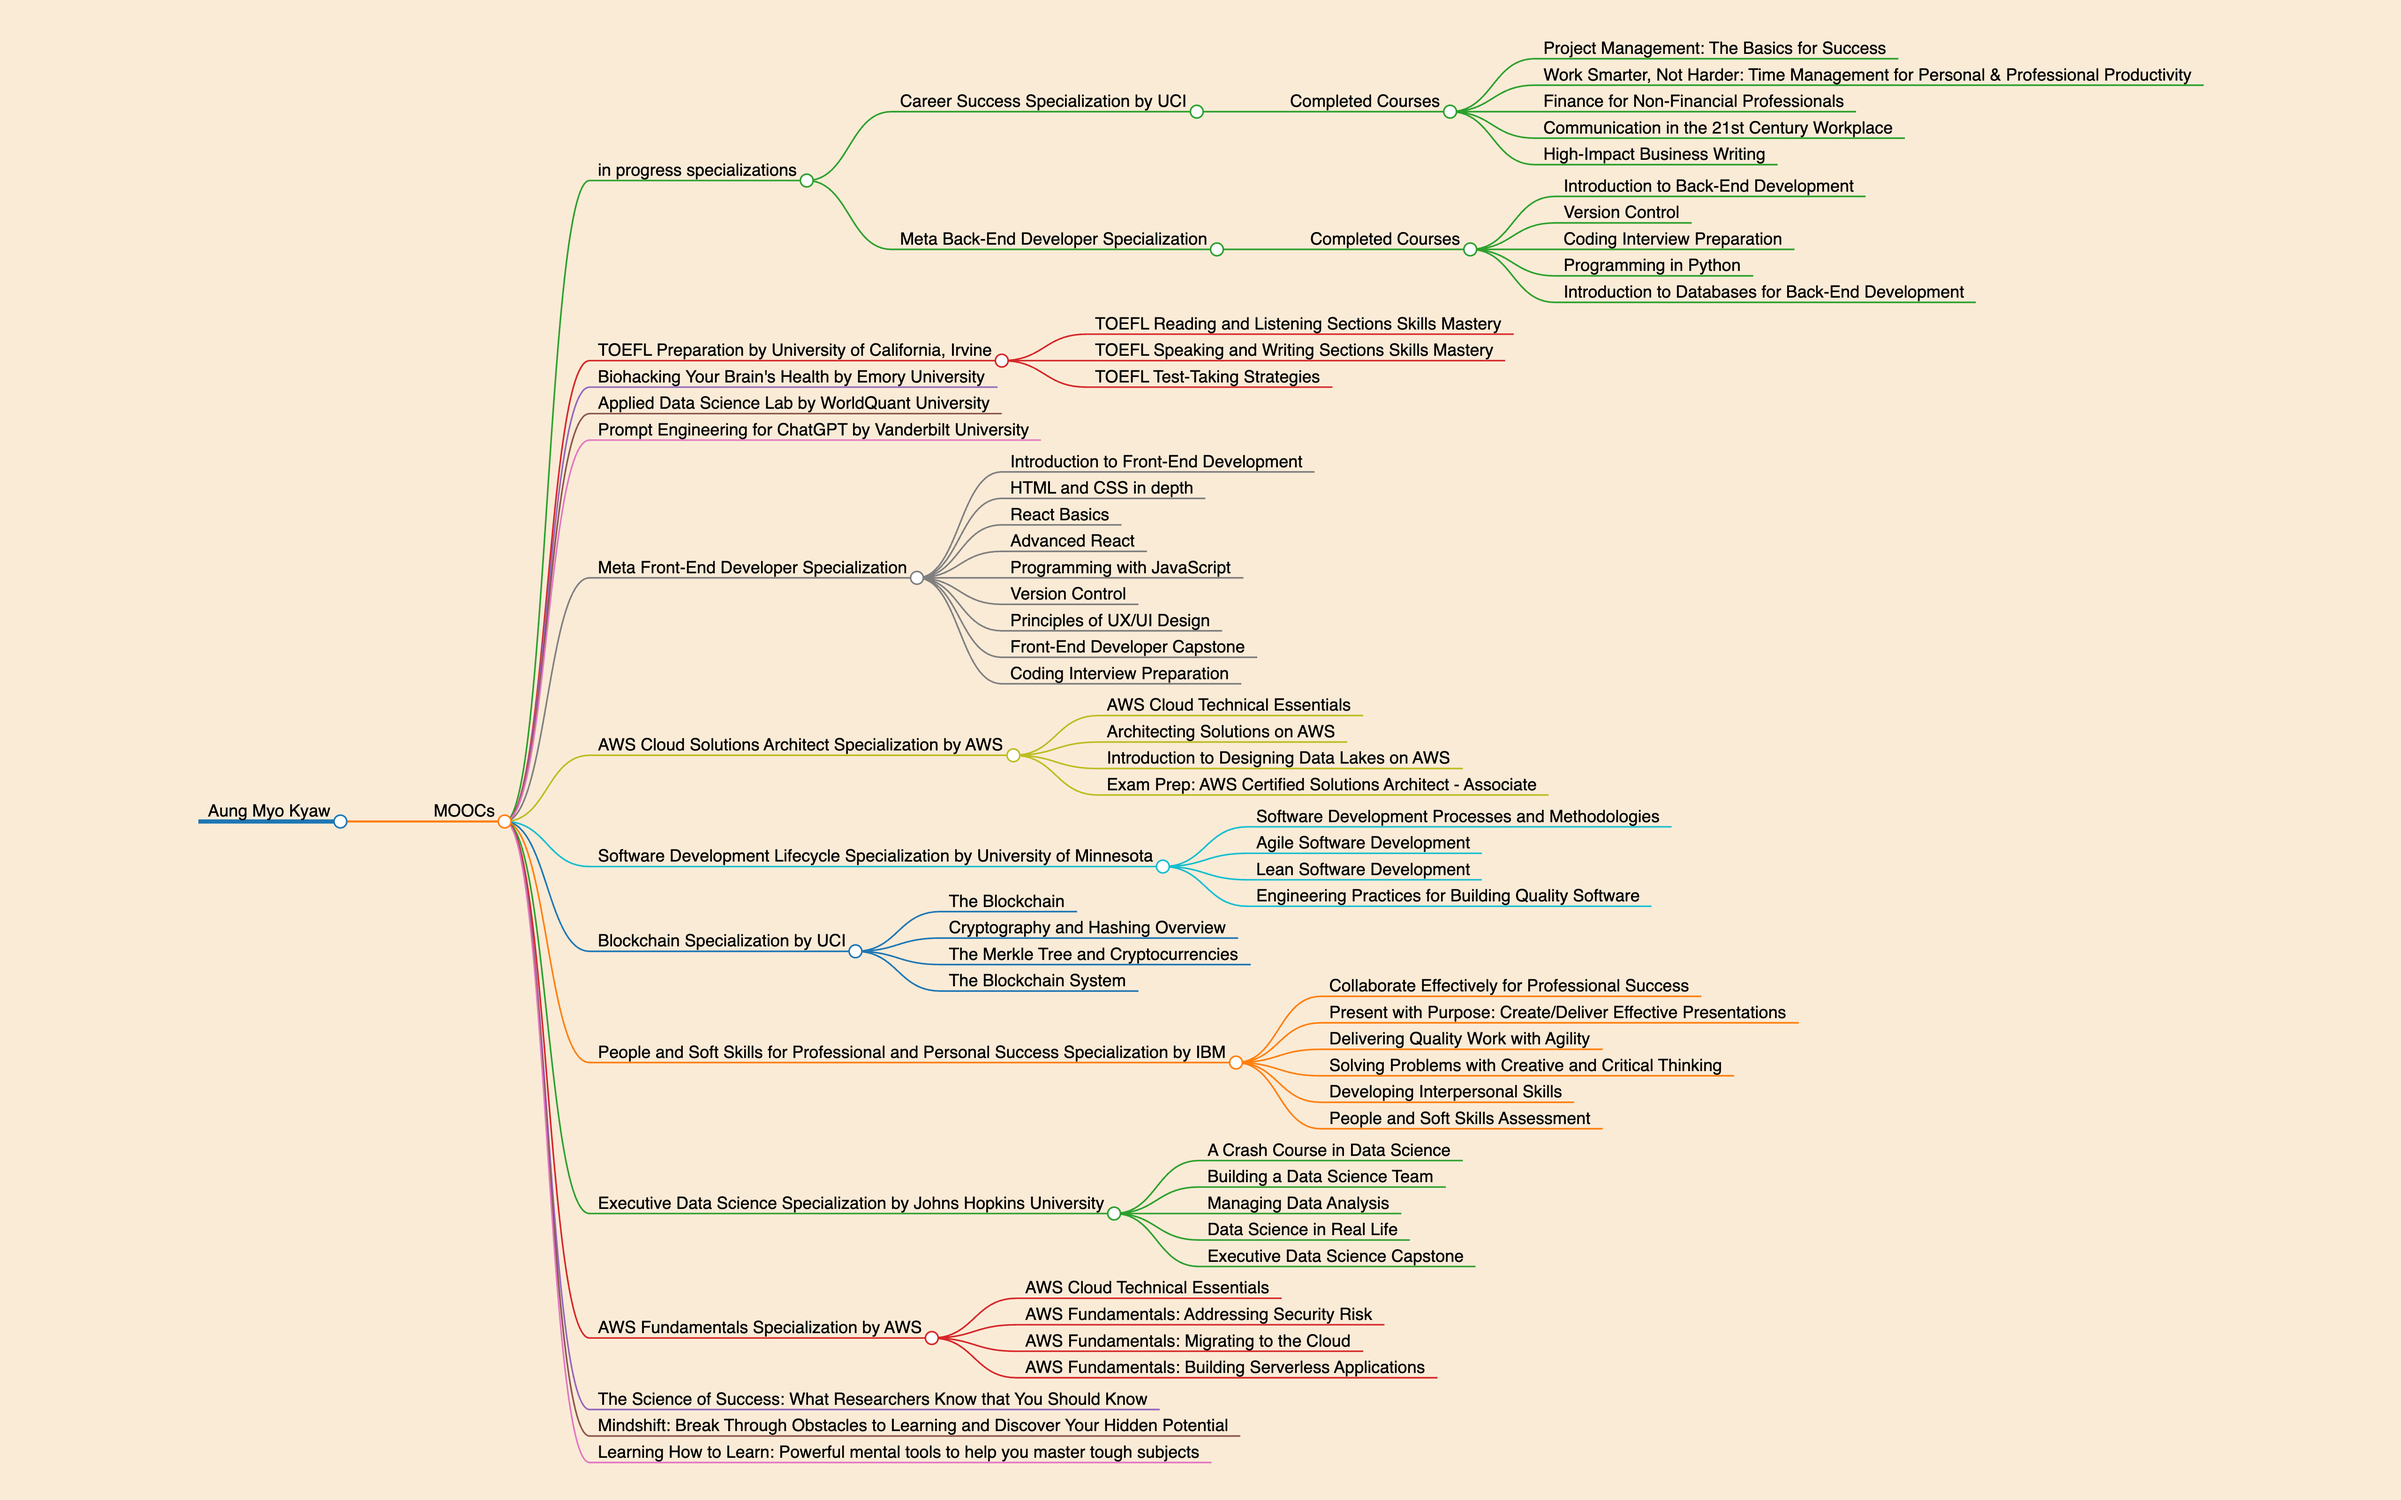
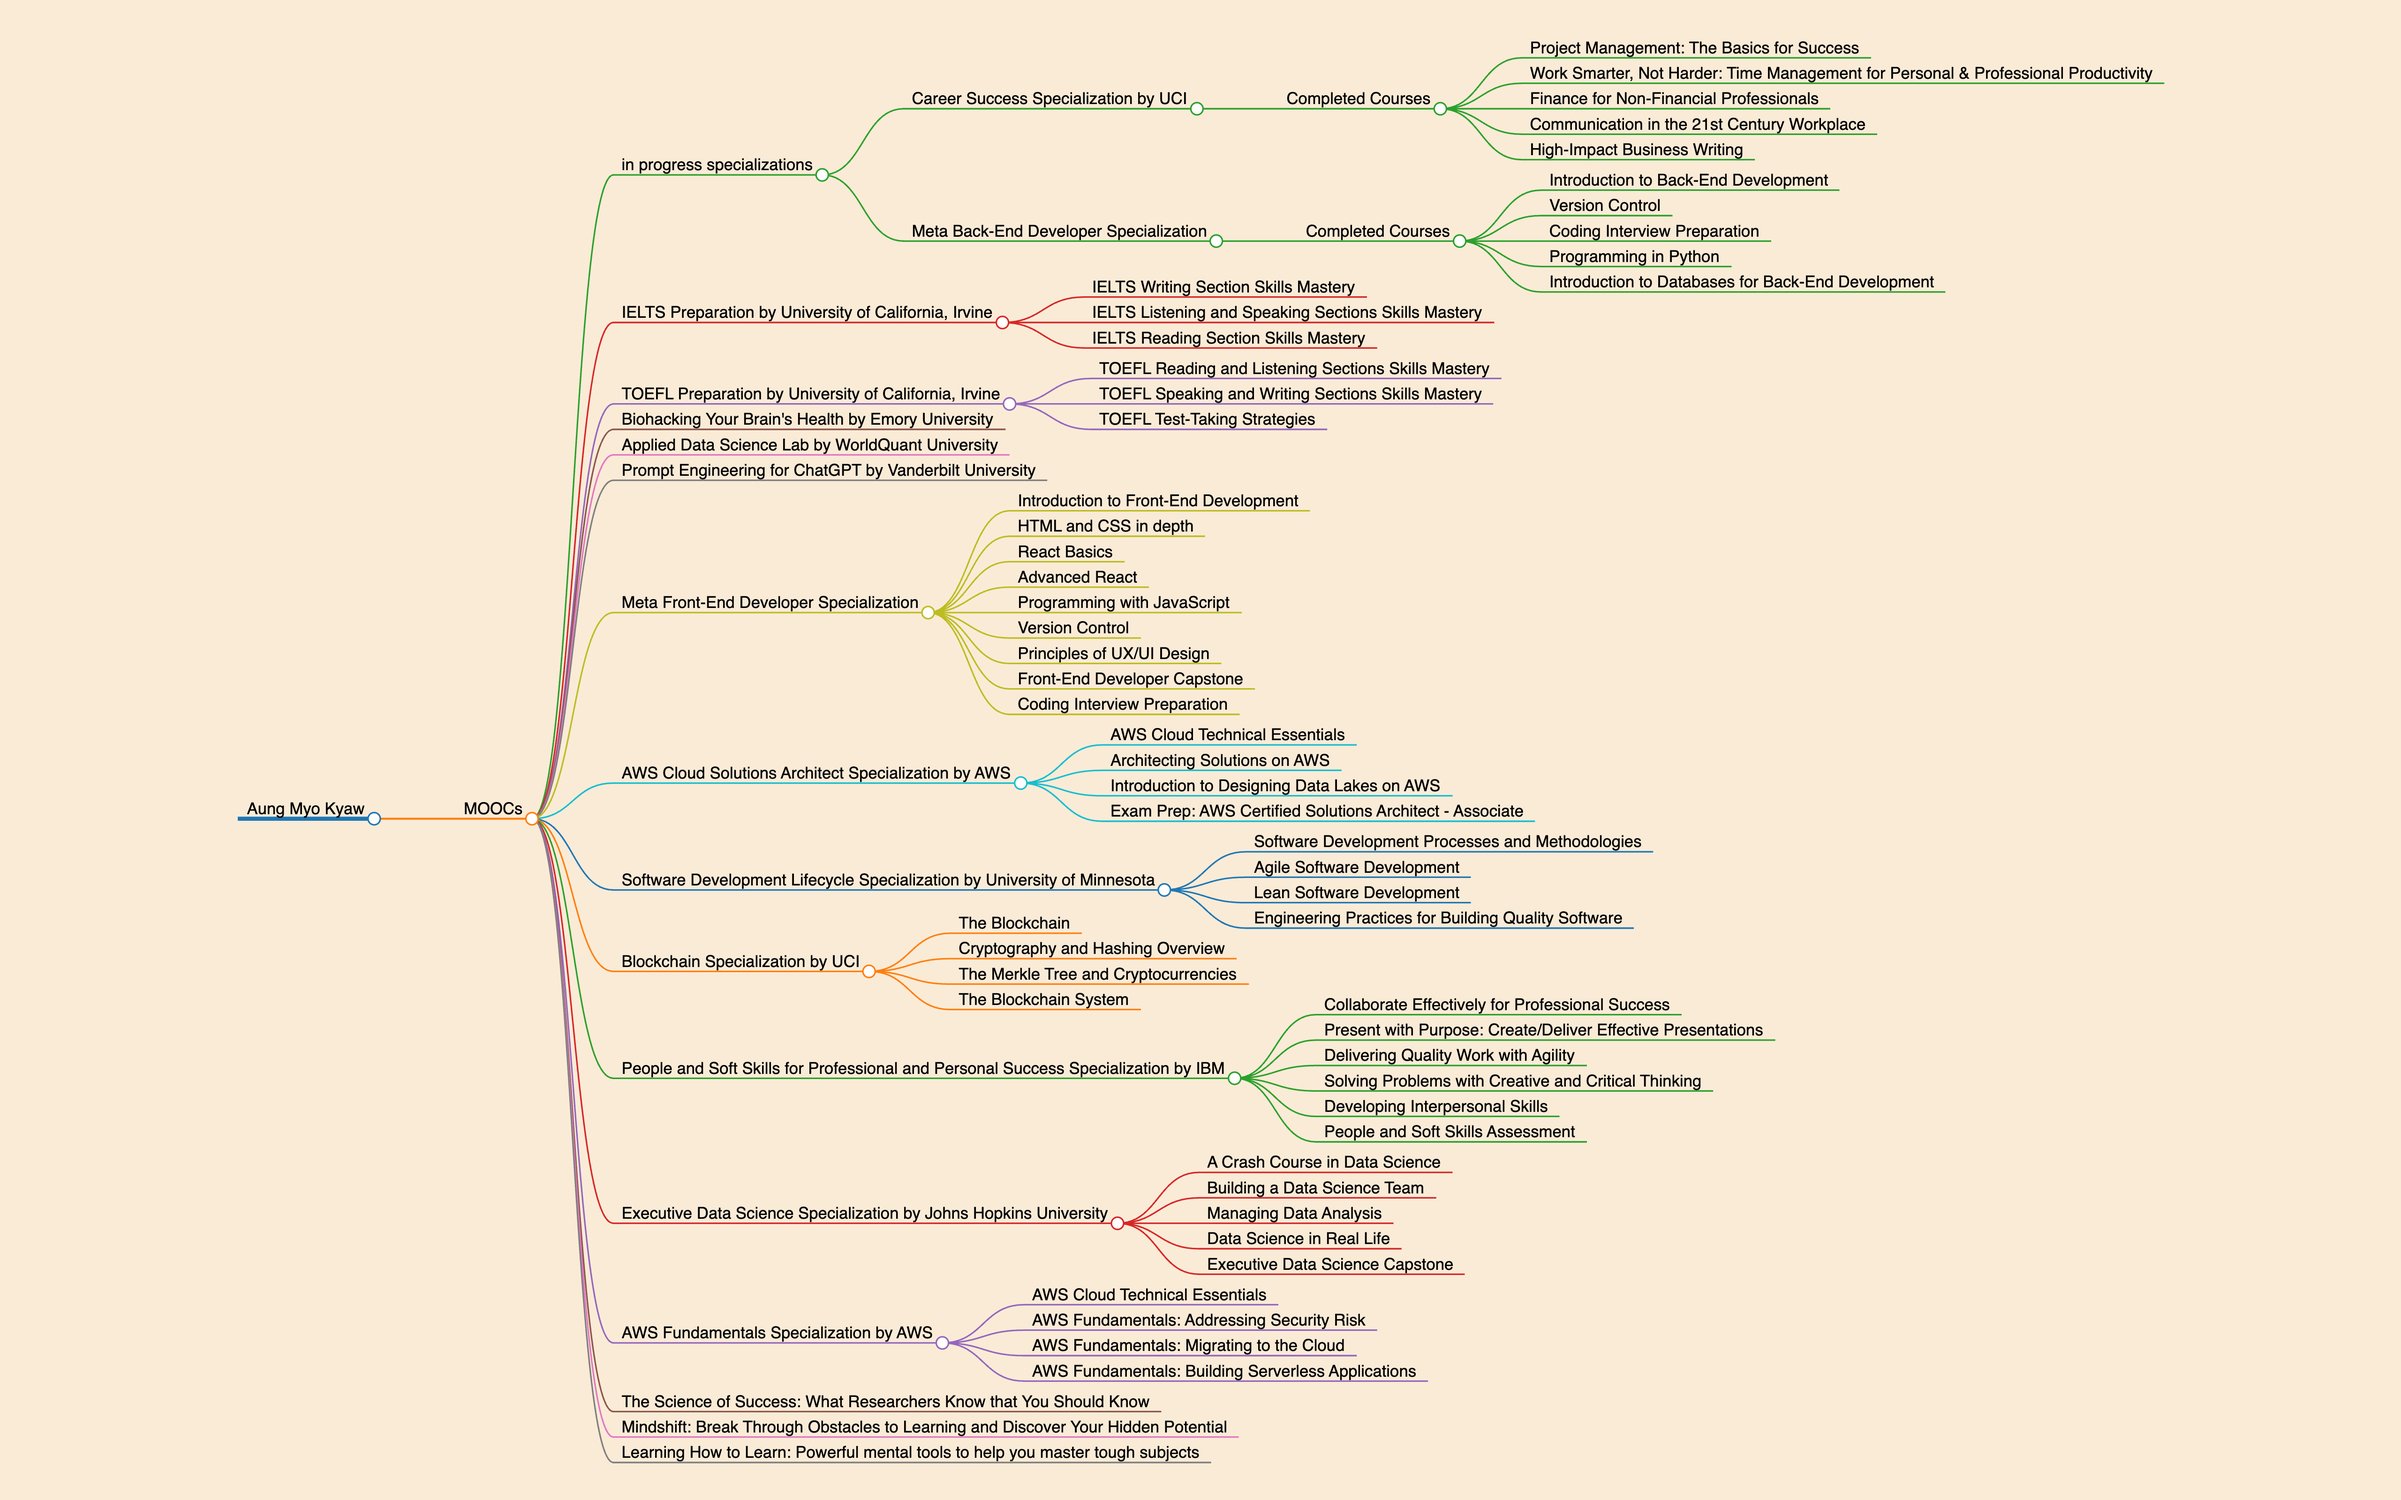
feat: update

Changed region(s): [[0.0938, 0.0312, 0.9062, 1.0], [0.375, 0.0625, 0.5, 0.0938], [0.25, 0.0938, 0.3438, 0.125]]

diff --git a/README.md b/README.md
@@ -47,6 +47,12 @@ markmap:
 
 ---
 
+### [ IELTS Preparation by University of California, Irvine](https://www.coursera.org/account/accomplishments/specialization/certificate/B7EP3UEJKKP4)
+
+- [IELTS Writing Section Skills Mastery](https://www.coursera.org/account/accomplishments/certificate/ZJESXLZCC5QS)
+- [IELTS Listening and Speaking Sections Skills Mastery](https://www.coursera.org/account/accomplishments/certificate/EUL799SSF3BB)
+- [IELTS Reading Section Skills Mastery](https://www.coursera.org/account/accomplishments/certificate/ZYSX7BSV6HLC)
+
 ### [ TOEFL Preparation by University of California, Irvine](https://www.coursera.org/account/accomplishments/specialization/certificate/BA3GT7GYU533)
 
 - [ TOEFL Reading and Listening Sections Skills Mastery ](https://www.coursera.org/account/accomplishments/certificate/JBZZW394SBJQ)
